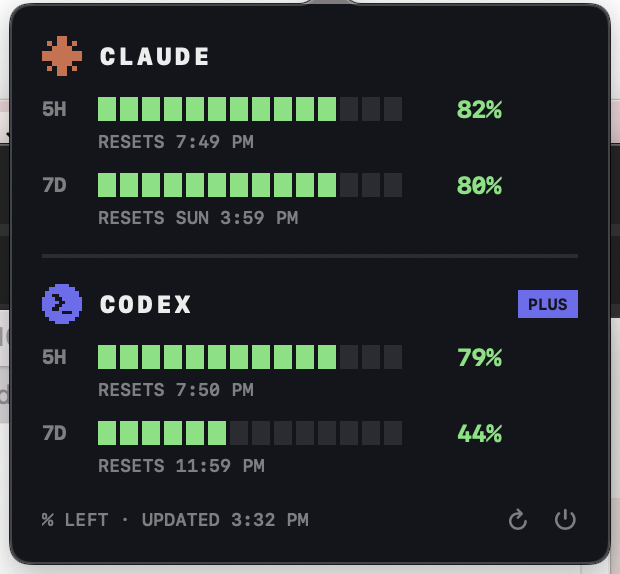
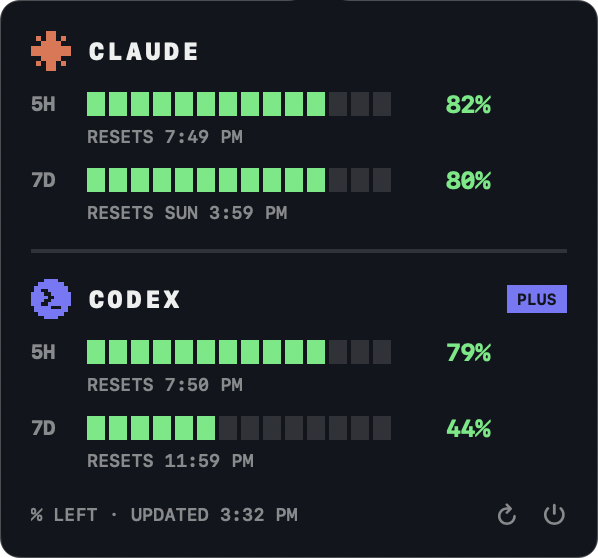
Trim screenshot to popover with transparent rounded corners; center and shrink in README

diff --git a/README.md b/README.md
@@ -7,7 +7,9 @@ A tiny pixel-art macOS menu bar app that shows your Claude Code and Codex
 menu bar:   ✳ 66%   ⬡ 95%         (% of the 5-hour window still LEFT)
 ```
 
-![Token Tracker popover](docs/screenshot.png)
+<p align="center">
+  <img src="docs/screenshot.png" alt="Token Tracker popover" width="320">
+</p>
 
 > **Unofficial tool** — not affiliated with or endorsed by Anthropic or OpenAI.
 > It reads only your own usage data and relies on undocumented internals (see